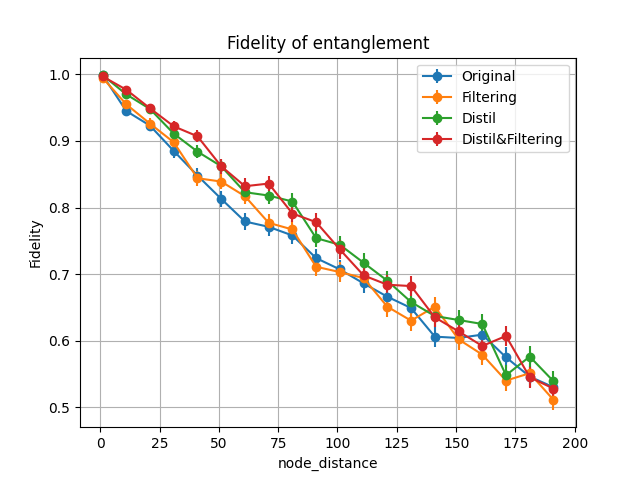
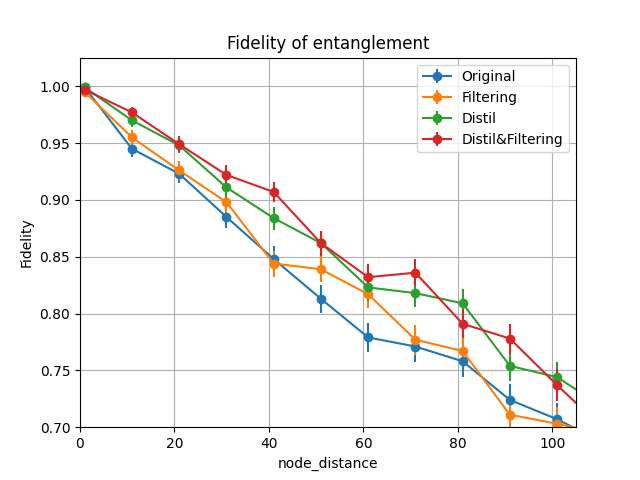
シミュレーション結果

diff --git a/sim/test1.py b/sim/test1.py
@@ -1,0 +1,157 @@
+#量子テレポーテーション
+
+import netsquid as ns
+import pydynaa as pd
+import pandas
+import matplotlib, os
+from matplotlib import pyplot as plt
+
+from netsquid.components import ClassicalChannel, QuantumChannel
+from netsquid.components.qsource import QSource, SourceStatus
+from netsquid.components.qprocessor import QuantumProcessor
+from netsquid.components.models.delaymodels import FixedDelayModel, FibreDelayModel
+from netsquid.components.models import DepolarNoiseModel
+from netsquid.util.simtools import sim_time
+from netsquid.util.datacollector import DataCollector
+from netsquid.qubits import qubitapi as qapi
+from netsquid.qubits import ketstates as ks
+from netsquid.qubits.state_sampler import StateSampler
+from netsquid.protocols.nodeprotocols import LocalProtocol
+from netsquid.protocols.protocol import Signals
+from netsquid.nodes.network import Network
+from netsquid.nodes.connections import DirectConnection
+from netsquid.examples.entanglenodes import EntangleNodes
+
+class Example(LocalProtocol):
+    def __init__(self, node_a, node_b, num_runs):
+        super().__init__(nodes={"A": node_a, "B": node_b}, name="example")
+        self.num_runs = num_runs
+        # Initialise sub-protocols
+        self.add_subprotocol(EntangleNodes(node=node_a, role="source", input_mem_pos=0,
+                                           num_pairs=1, name="entangle_A"))
+        self.add_subprotocol(EntangleNodes(node=node_b, role="receiver", input_mem_pos=0,
+                                           num_pairs=1, name="entangle_B"))
+        # Set start expressions
+        self.subprotocols["entangle_A"].start_expression = self.subprotocols["entangle_A"].await_signal(self, Signals.WAITING)
+
+    def run(self):
+        self.start_subprotocols()
+        for i in range(self.num_runs):
+            #print(f"Simulation {i} Start")
+            start_time = sim_time()
+            self.subprotocols["entangle_A"].entangled_pairs = 0
+            self.send_signal(Signals.WAITING)
+            yield (self.await_signal(self.subprotocols["entangle_A"], Signals.SUCCESS) &
+                   self.await_signal(self.subprotocols["entangle_B"], Signals.SUCCESS))
+            resurl_A = self.subprotocols["entangle_A"].get_signal_result(Signals.SUCCESS, self)
+            signal_B = self.subprotocols["entangle_B"].get_signal_result(Signals.SUCCESS, self)
+            result = {
+                "pos_A": resurl_A,
+                "pos_B": signal_B,
+                "time": sim_time() - start_time,
+            }
+            self.send_signal(Signals.SUCCESS, result)
+            #print(f"Simulation {i} Finish")
+
+
+def example_network_setup(source_delay=1e5, source_fidelity_sq=1.0, depolar_rate=1000,
+                          node_distance=30):
+    network = Network("network")
+
+    node_a, node_b = network.add_nodes(["node_A", "node_B"])
+    node_a.add_subcomponent(QuantumProcessor(
+        "QuantumMemory_A", num_positions=2, fallback_to_nonphysical=True,
+        memory_noise_models=DepolarNoiseModel(0)))
+    state_sampler = StateSampler(
+        [ks.b01, ks.s00],
+        probabilities=[source_fidelity_sq, 1 - source_fidelity_sq])
+    node_a.add_subcomponent(QSource(
+        "QSource_A", state_sampler=state_sampler,
+        models={"emission_delay_model": FixedDelayModel(delay=source_delay)},
+        num_ports=2, status=SourceStatus.EXTERNAL))
+    node_b.add_subcomponent(QuantumProcessor(
+        "QuantumMemory_B", num_positions=2, fallback_to_nonphysical=True,
+        memory_noise_models=DepolarNoiseModel(0)))
+    conn_cchannel = DirectConnection(
+        "CChannelConn_AB",
+        ClassicalChannel("CChannel_A->B", length=node_distance,
+                         models={"delay_model": FibreDelayModel(c=200e3)}),
+        ClassicalChannel("CChannel_B->A", length=node_distance,
+                         models={"delay_model": FibreDelayModel(c=200e3)}))
+    network.add_connection(node_a, node_b, connection=conn_cchannel, port_name_node1="cout_bob", port_name_node2="cin_alice")
+    # node_A.connect_to(node_B, conn_cchannel)
+    qchannel = QuantumChannel("QChannel_A->B", length=node_distance,
+                              models={"quantum_noise_model": DepolarNoiseModel(depolar_rate),
+                                      "delay_model": FibreDelayModel(c=200e3)})
+    port_name_a, port_name_b = network.add_connection(
+        node_a, node_b, channel_to=qchannel, label="quantum", port_name_node1="qin_charlie", port_name_node2="qin_charlie")
+    # Link Alice ports:
+    node_a.subcomponents["QSource_A"].ports["qout1"].forward_output(
+        node_a.ports[port_name_a])
+    node_a.subcomponents["QSource_A"].ports["qout0"].connect(
+        node_a.qmemory.ports["qin0"])
+    # Link Bob ports:
+    node_b.ports[port_name_b].forward_input(node_b.qmemory.ports["qin0"])
+    return network
+
+
+def example_sim_setup(node_a, node_b, num_runs):
+    example = Example(node_a, node_b, num_runs=num_runs)
+
+    def record_run(evexpr):
+        # Callback that collects data each run
+        protocol = evexpr.triggered_events[-1].source
+        result = protocol.get_signal_result(Signals.SUCCESS)
+        # Record fidelity
+        q_A, = node_a.qmemory.pop(positions=[result["pos_A"]])
+        q_B, = node_b.qmemory.pop(positions=[result["pos_B"]])
+        f2 = qapi.fidelity([q_A,q_B], ks.b01, squared=True)
+        return {"F2": f2, "time": result["time"]}
+
+    dc = DataCollector(record_run, include_time_stamp=False,
+                       include_entity_name=False)
+    dc.collect_on(pd.EventExpression(source=example,
+                                     event_type=Signals.SUCCESS.value))
+    return example, dc
+
+
+def run_experiment(node_distances):
+    fidelity_data = pandas.DataFrame()
+    for node_distance in node_distances:
+        ns.sim_reset()
+        network = example_network_setup(node_distance=node_distance)
+        node_a = network.get_node("node_A")
+        node_b = network.get_node("node_B")
+        example, dc = example_sim_setup(node_a, node_b, 1000)
+        example.start()
+        ns.sim_run()
+        df = dc.dataframe
+        df['node_distance'] = node_distance
+        fidelity_data = pandas.concat([fidelity_data, df])
+    return fidelity_data
+
+
+def create_plot():
+    matplotlib.use('Agg')
+    node_distances = [1 + i for i in range(0, 100, 5)]
+    fidelities = run_experiment(node_distances)
+    plot_style = {'kind': 'scatter', 'grid': True,
+                  'title': "Fidelity of entanglement"}
+    data = fidelities.groupby("node_distance")['F2'].agg(
+        fidelity='mean', sem='sem').reset_index()
+    save_dir = "./plots_2000"
+    existing_files = len([f for f in os.listdir(save_dir) if f.startswith("Original_Entanglement")])
+    filename = f"{save_dir}/Original_Entanglement fidelity_{existing_files + 1}.png"
+    data.plot(x='node_distance', y='fidelity', yerr='sem', **plot_style)
+    plt.savefig(filename)
+    print(f"Plot saved as {filename}")
+    fidelities.to_csv(f"{save_dir}/Original_Entanglement fidelity_{existing_files + 2}.csv")
+
+
+if __name__ == "__main__":
+    #network = example_network_setup()
+    #example, dc = example_sim_setup(network.get_node("node_A"),network.get_node("node_B"),num_runs=1000)
+    #example.start()
+    #ns.sim_run()
+    #print("Average fidelity of generated entanglement: {}".format(dc.dataframe["F2"].mean()))
+    create_plot()

diff --git a/simulation/plots_1000/result.py b/simulation/plots_1000/result.py
@@ -45,6 +45,8 @@ plt.errorbar(xcolumn, data2['fidelity'], yerr=data2['sem'], marker="o", label='F
 plt.errorbar(xcolumn, data3['fidelity'], yerr=data3['sem'], marker="o", label='Distil')
 plt.errorbar(xcolumn, data4['fidelity'], yerr=data4['sem'], marker="o", label='Distil&Filtering')
 
+plt.xlim(0, 105)
+plt.ylim(bottom = 0.7)
 plt.xlabel('node_distance')
 plt.ylabel('Fidelity')
 plt.title('Fidelity of entanglement')
@@ -54,7 +56,7 @@ plt.grid()
 plt.savefig(filename1)
 print(f"Plot saved as {filename1}")
 
-plt.figure()
+"""plt.figure()
 plt.errorbar(xcolumn, data11['fidelity'], yerr=data11['sem'], marker="o", label='Original')
 plt.errorbar(xcolumn, data22['fidelity'], yerr=data22['sem'], marker="o", label='Filtering')
 plt.errorbar(xcolumn, data33['fidelity'], yerr=data33['sem'], marker="o", label='Distil')
@@ -82,4 +84,4 @@ plt.legend()
 plt.grid()
 
 plt.savefig(filename3)
-print(f"Plot saved as {filename3}")
+print(f"Plot saved as {filename3}")"""

diff --git a/simulation/plots_2000/result.py b/simulation/plots_2000/result.py
@@ -45,6 +45,8 @@ plt.errorbar(xcolumn, data2['fidelity'], yerr=data2['sem'], marker="o", label='F
 plt.errorbar(xcolumn, data3['fidelity'], yerr=data3['sem'], marker="o", label='Distil')
 plt.errorbar(xcolumn, data4['fidelity'], yerr=data4['sem'], marker="o", label='Distil&Filtering')
 
+plt.xlim(0, 42)
+plt.ylim(bottom = 0.7)
 plt.xlabel('node_distance')
 plt.ylabel('Fidelity')
 plt.title('Fidelity of entanglement')
@@ -54,7 +56,7 @@ plt.grid()
 plt.savefig(filename1)
 print(f"Plot saved as {filename1}")
 
-plt.figure()
+"""plt.figure()
 plt.errorbar(xcolumn, data11['fidelity'], yerr=data11['sem'], marker="o", label='Original')
 plt.errorbar(xcolumn, data22['fidelity'], yerr=data22['sem'], marker="o", label='Filtering')
 plt.errorbar(xcolumn, data33['fidelity'], yerr=data33['sem'], marker="o", label='Distil')
@@ -82,4 +84,4 @@ plt.legend()
 plt.grid()
 
 plt.savefig(filename3)
-print(f"Plot saved as {filename3}")
+print(f"Plot saved as {filename3}")"""
